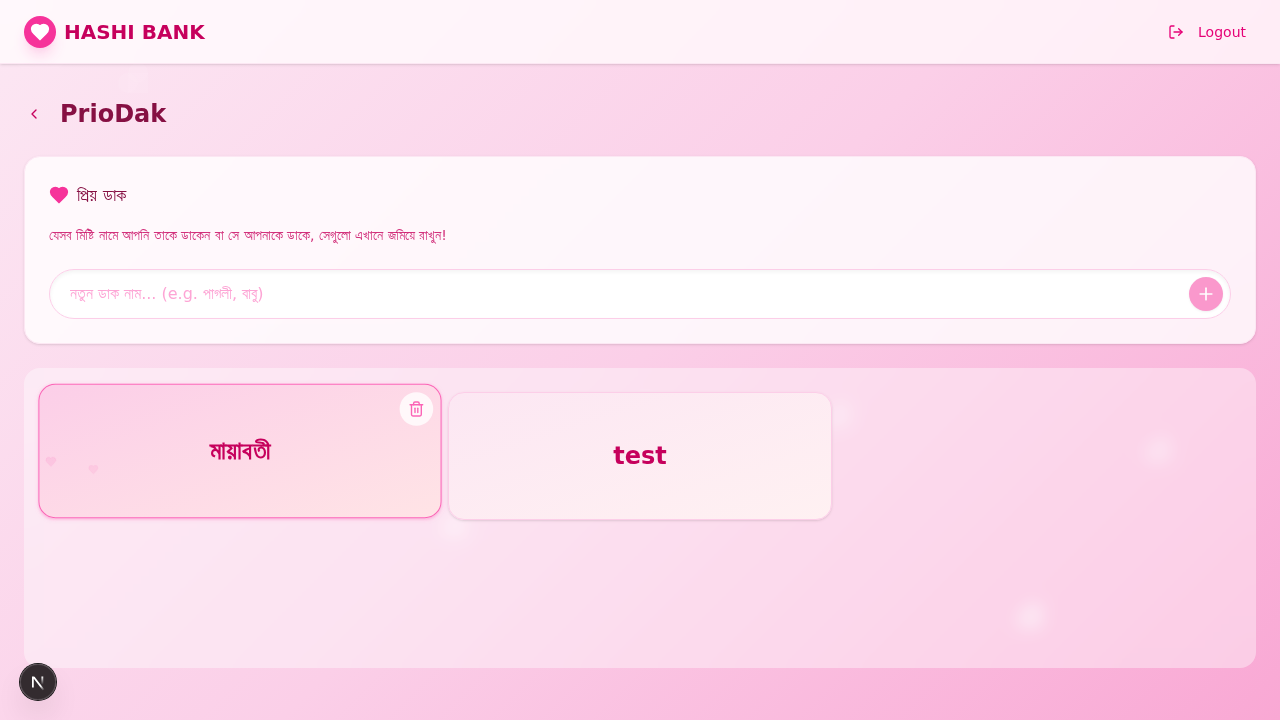
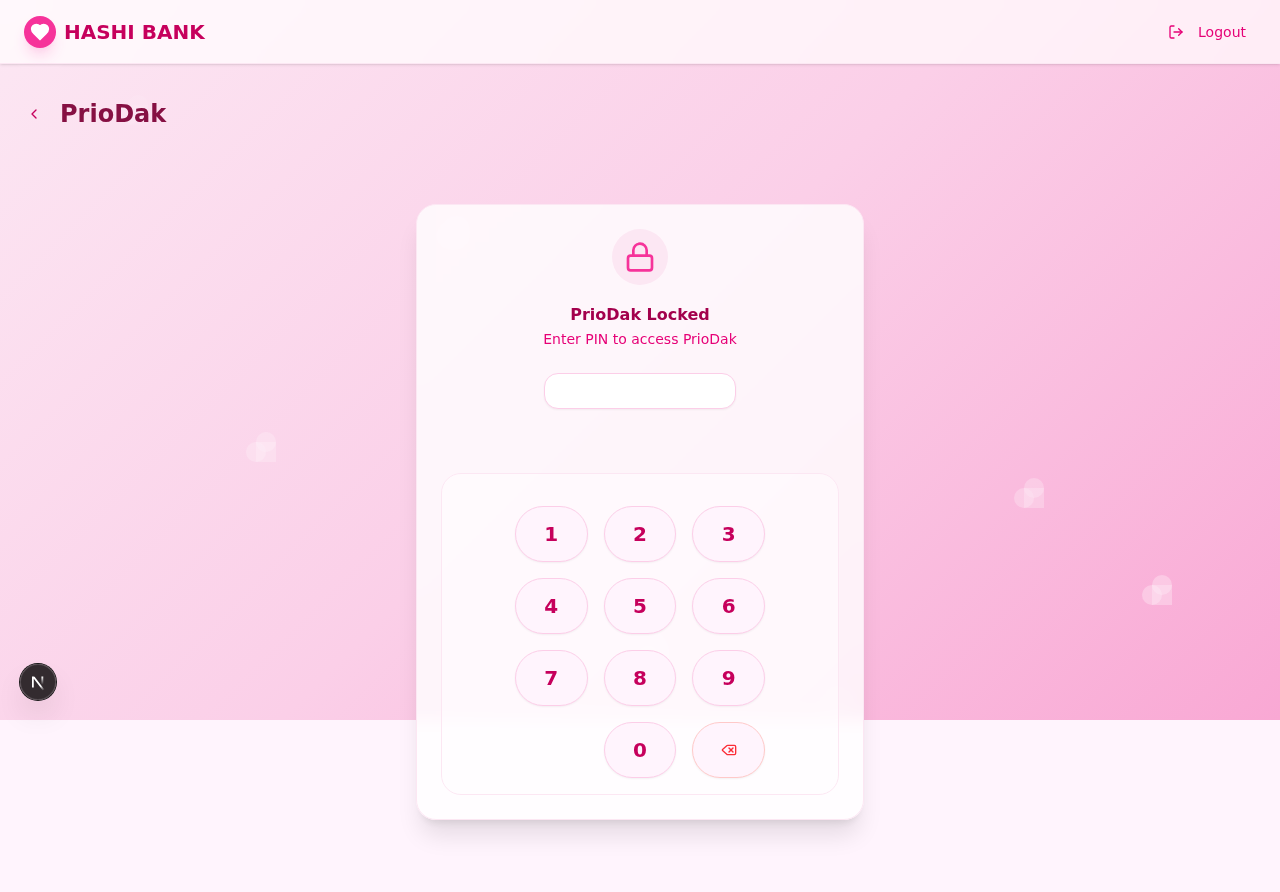
feat: enhance PrioDak with shared view, pin lock, and kissing sound
- Updated `/api/priodak/route.ts` to fetch all PrioDaks without user filtering, allowing users to see each other's entries.
- Added `user` relation inclusion in the API to display who created which PrioDak.
- Wrapped the PrioDakManager component in a `PinGate` in `src/app/page.tsx` to require PIN authentication before viewing.
- Added a `kiss.ogg` sound effect to the `public/` directory.
- Updated `PrioDakManager` to instantiate and play the kissing sound when a user clicks on a PrioDak card.

diff --git a/src/components/prio-dak-manager.tsx b/src/components/prio-dak-manager.tsx
@@ -13,14 +13,31 @@ interface PrioDakManagerProps {
 const fetcher = (url: string) => fetch(url).then((res) => res.json());
 
 export function PrioDakManager({ currentUser }: PrioDakManagerProps) {
-  const { data: prioDaks, error, mutate } = useSWR<PrioDak[]>(
-    `/api/priodak?userName=${encodeURIComponent(currentUser)}`,
+  const { data: prioDaks, error, mutate } = useSWR<(PrioDak & { user: { name: string } })[]>(
+    `/api/priodak`,
     fetcher
   );
 
   const [newName, setNewName] = useState("");
   const [isSubmitting, setIsSubmitting] = useState(false);
   const [activeCardId, setActiveCardId] = useState<number | null>(null);
+
+  const playKissSound = () => {
+    try {
+      const audio = new Audio("/kiss.ogg");
+      audio.volume = 0.5;
+      audio.play().catch(e => console.error("Audio playback failed:", e));
+    } catch (e) {
+      console.error("Audio instantiation failed:", e);
+    }
+  };
+
+  const handleCardClick = (id: number) => {
+    if (activeCardId !== id) {
+      playKissSound();
+    }
+    setActiveCardId(activeCardId === id ? null : id);
+  };
 
   const handleSubmit = async (e: React.FormEvent) => {
     e.preventDefault();
@@ -126,7 +143,7 @@ export function PrioDakManager({ currentUser }: PrioDakManagerProps) {
                   exit={{ opacity: 0, scale: 0.8 }}
                   whileHover={{ scale: 1.05, y: -5 }}
                   whileTap={{ scale: 0.95 }}
-                  onClick={() => setActiveCardId(activeCardId === dak.id ? null : dak.id)}
+                  onClick={() => handleCardClick(dak.id)}
                   className="relative group cursor-pointer"
                 >
                   <div

diff --git a/src/app/page.tsx b/src/app/page.tsx
@@ -561,11 +561,17 @@ export default function Home() {
             {currentView === 'priodak' && (
               <>
                 <PageHeader title="PrioDak" onBack={() => setCurrentView('home')} />
-                <IdentityGate users={users} gateId="priodak-identity" title="Who is adding this PrioDak?">
-                  {(selectedUser) => (
-                    <PrioDakManager currentUser={selectedUser} />
-                  )}
-                </IdentityGate>
+                <PinGate
+                  gateId="priodak"
+                  title="PrioDak Locked"
+                  description="Enter PIN to access PrioDak"
+                >
+                  <IdentityGate users={users} gateId="priodak-identity" title="Who is adding this PrioDak?">
+                    {(selectedUser) => (
+                      <PrioDakManager currentUser={selectedUser} />
+                    )}
+                  </IdentityGate>
+                </PinGate>
               </>
             )}
           </div>

diff --git a/src/app/api/priodak/route.ts b/src/app/api/priodak/route.ts
@@ -3,26 +3,12 @@ import { db as prisma } from "@/lib/db";
 
 export async function GET(req: NextRequest) {
   try {
-    const { searchParams } = new URL(req.url);
-    const userNameStr = searchParams.get("userName");
-
-    if (!userNameStr) {
-      return NextResponse.json(
-        { error: "userName is required" },
-        { status: 400 }
-      );
-    }
-
-    const user = await prisma.user.findUnique({
-      where: { name: userNameStr },
-    });
-
-    if (!user) {
-      return NextResponse.json({ error: "User not found" }, { status: 404 });
-    }
-
     const prioDaks = await prisma.prioDak.findMany({
-      where: { userId: user.id },
+      include: {
+        user: {
+          select: { name: true },
+        },
+      },
       orderBy: { createdAt: "desc" },
     });
 
